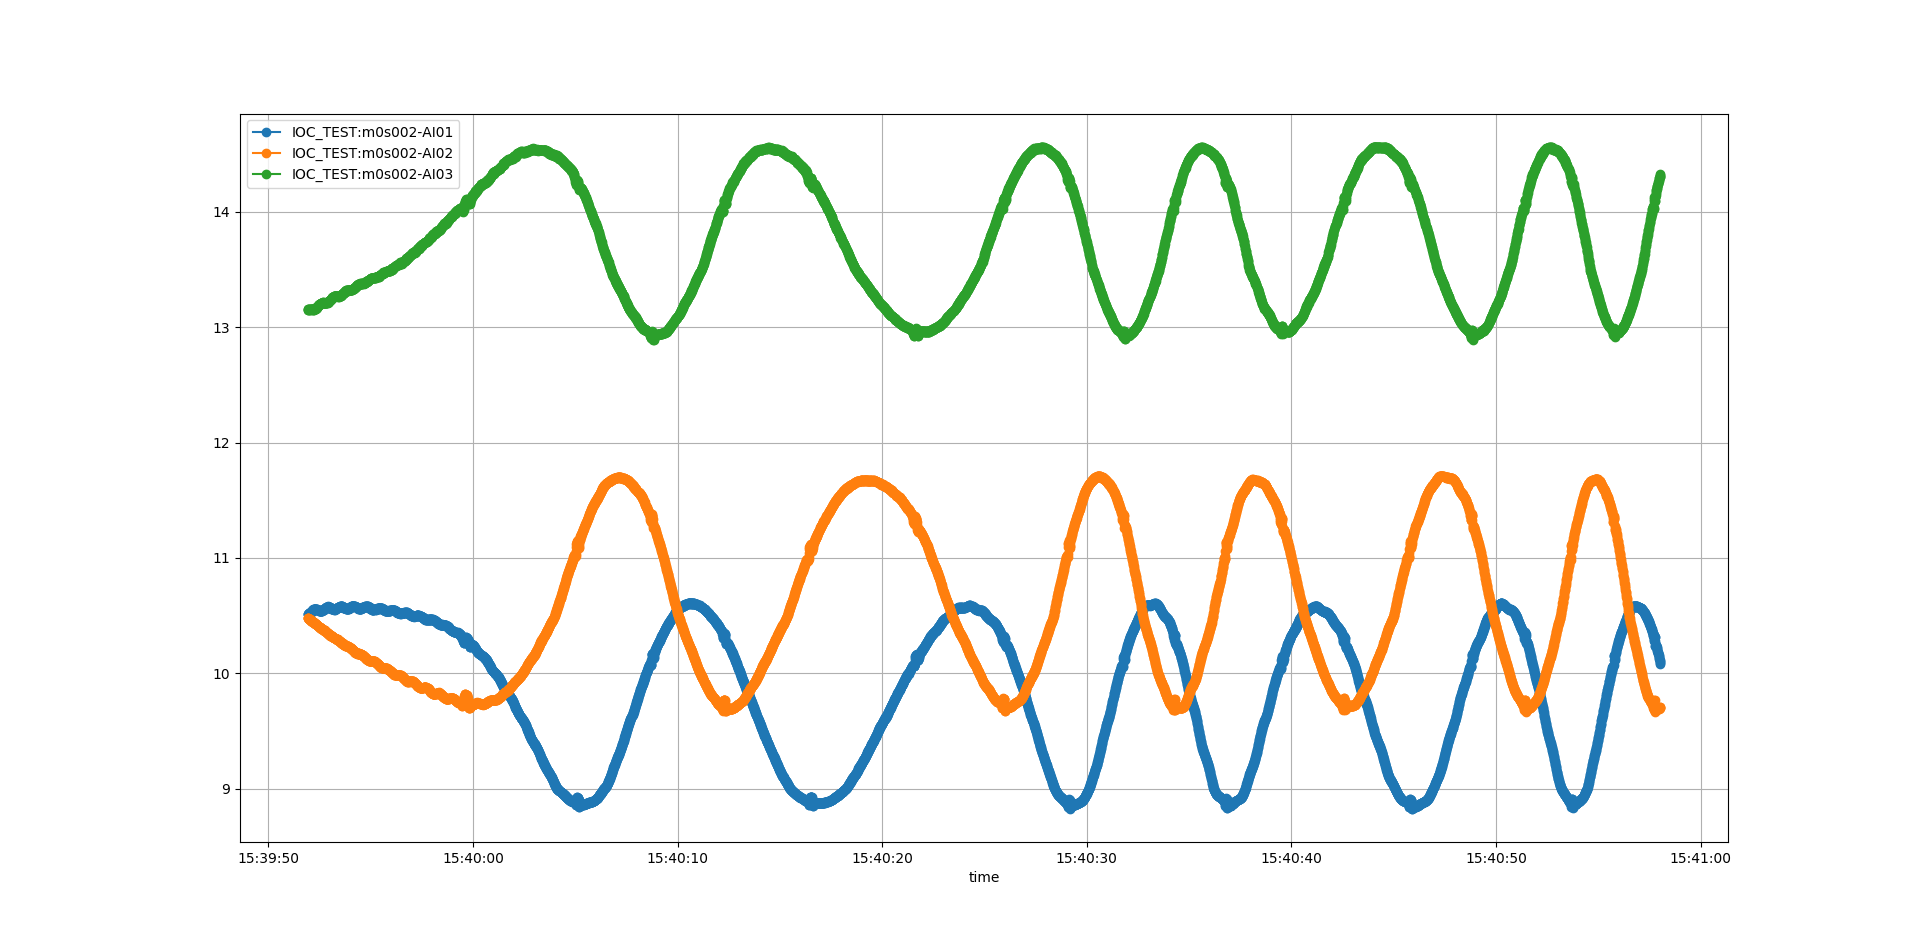
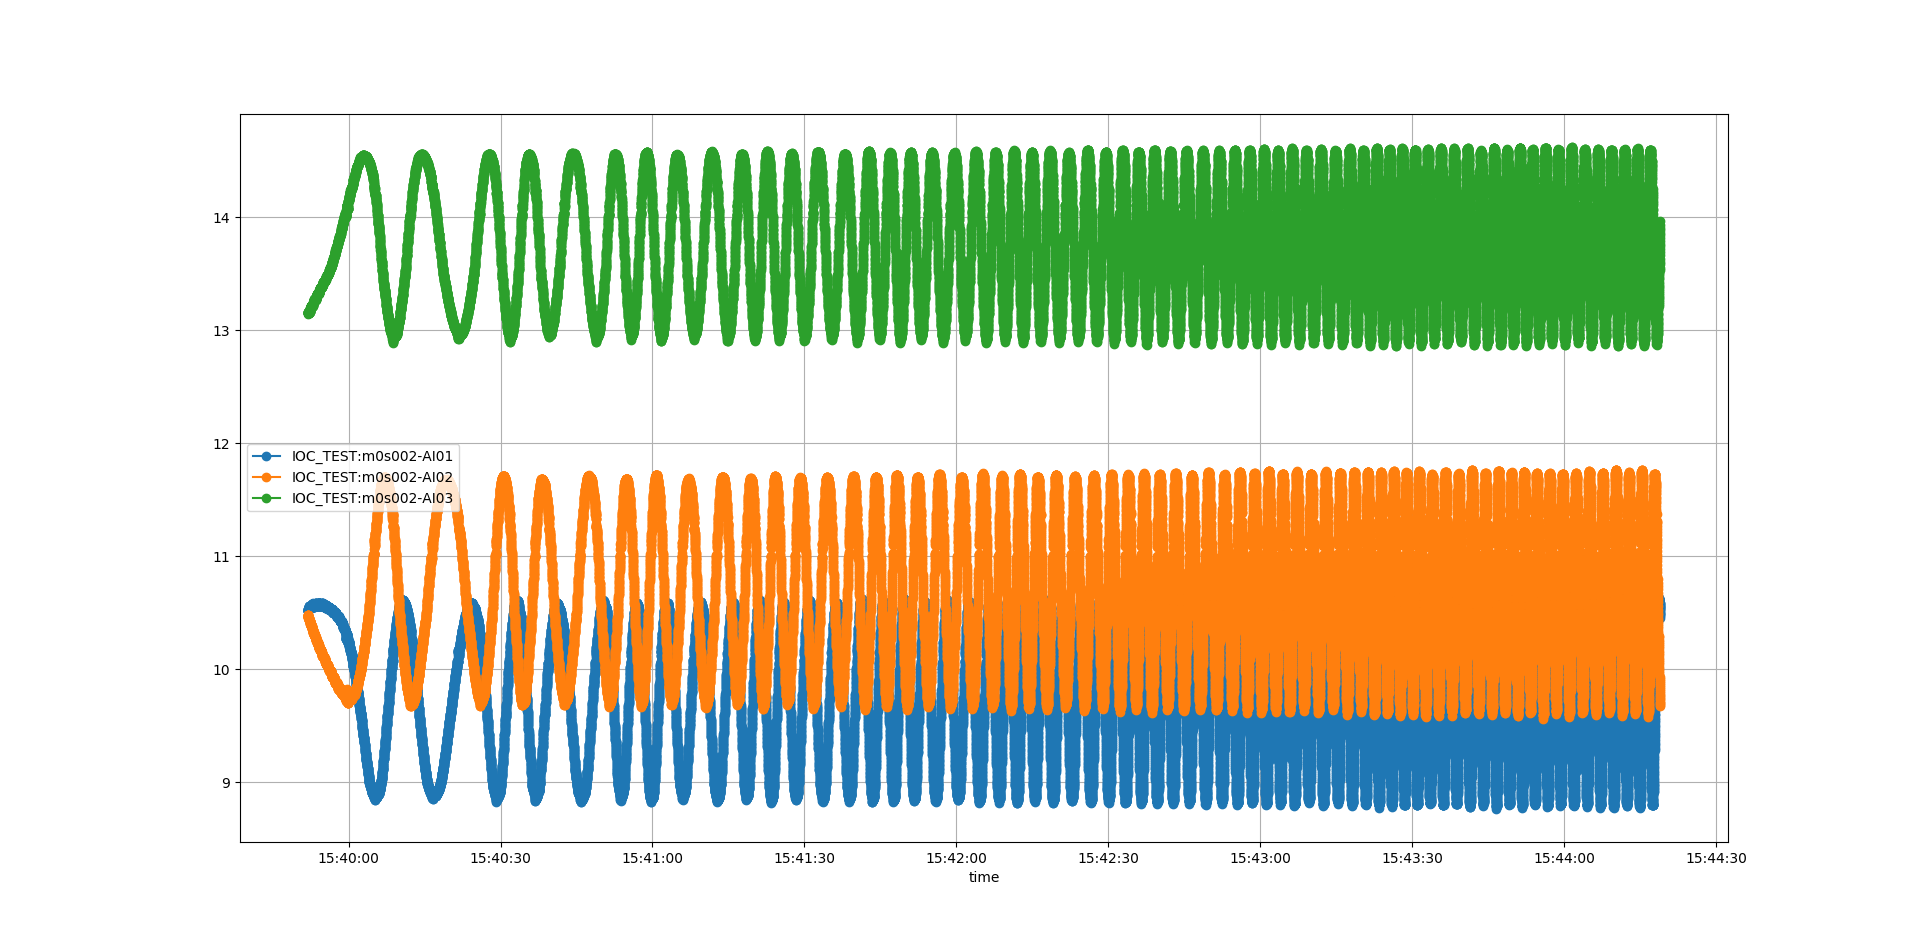
Update figs

diff --git a/muts/data/220704/readme.md b/muts/data/220704/readme.md
@@ -41,4 +41,8 @@ data_11.log rampdown
 
 
 ## filter opto
-cat data_08.log | head -n 30000 | grep Opto | awk 'BEGIN{f=1;}{if(f){f=0;old=$4;} if($4<old+0.1 && $4>old-0.1){print $0;} old=$4;}' | awk '{if($4<21){print $0;}}
+cat data_08.log | head -n 130000 | grep Opto | awk 'BEGIN{f=1;}{if(f){f=0;old=$4;} if($4<old+0.1 && $4>old-0.1){print $0;} old=$4;}' | awk '{if($4<20.25){print $0;}}' | python ~/sources/ecmccomgui/pyDataManip/plotCaMonitor.py 
+
+## filter vertical
+ cat data_08.log | head -n 130000 | grep AI04 | awk 'BEGIN{f=1;}{if(f){f=0;old=$4;} if($4<old+0.015 && $4>old-0.015){print $0;} old=$4;}' | awk '{if($4<10.755){print $0;}}' | awk 'BEGIN{f=1;}{if(f){f=0;old=$4;} if($4<old+0.015 && $4>old-0.015){print $0;} old=$4;}' | python ~/sources/ecmccomgui/pyDataManip/plotCaMonitor.py 
+
